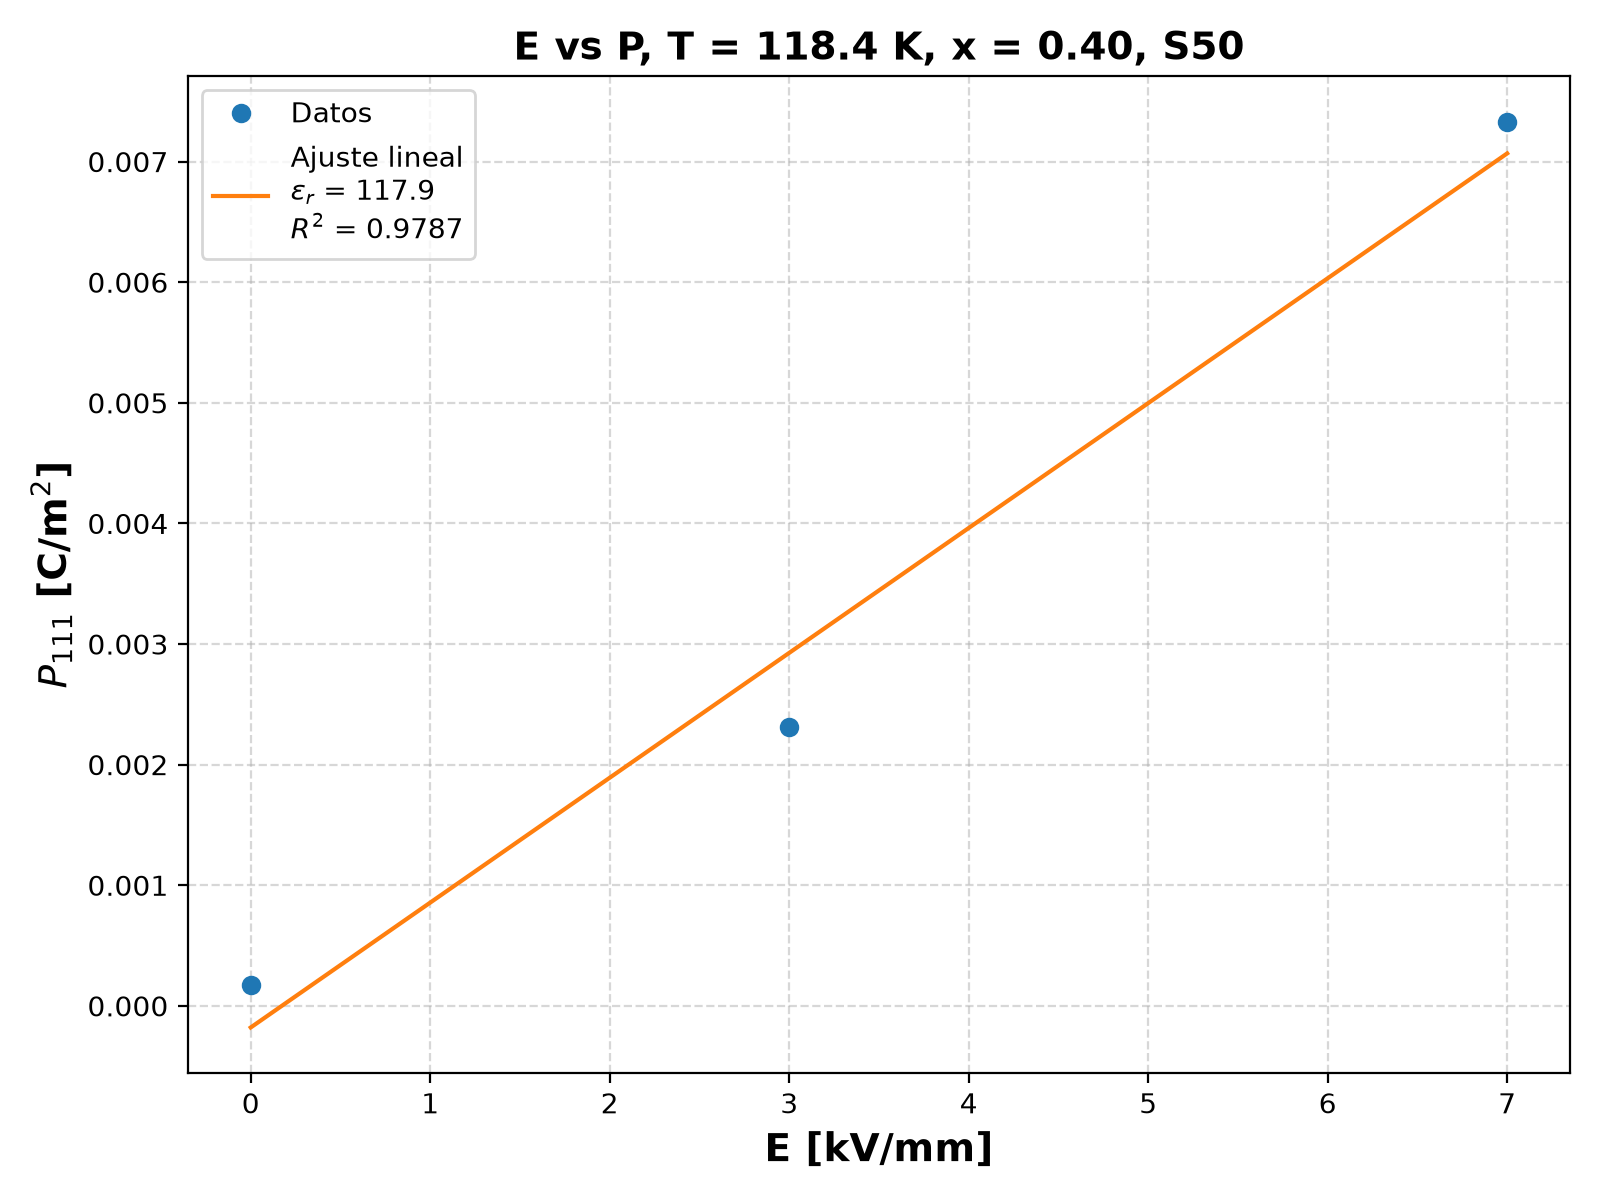
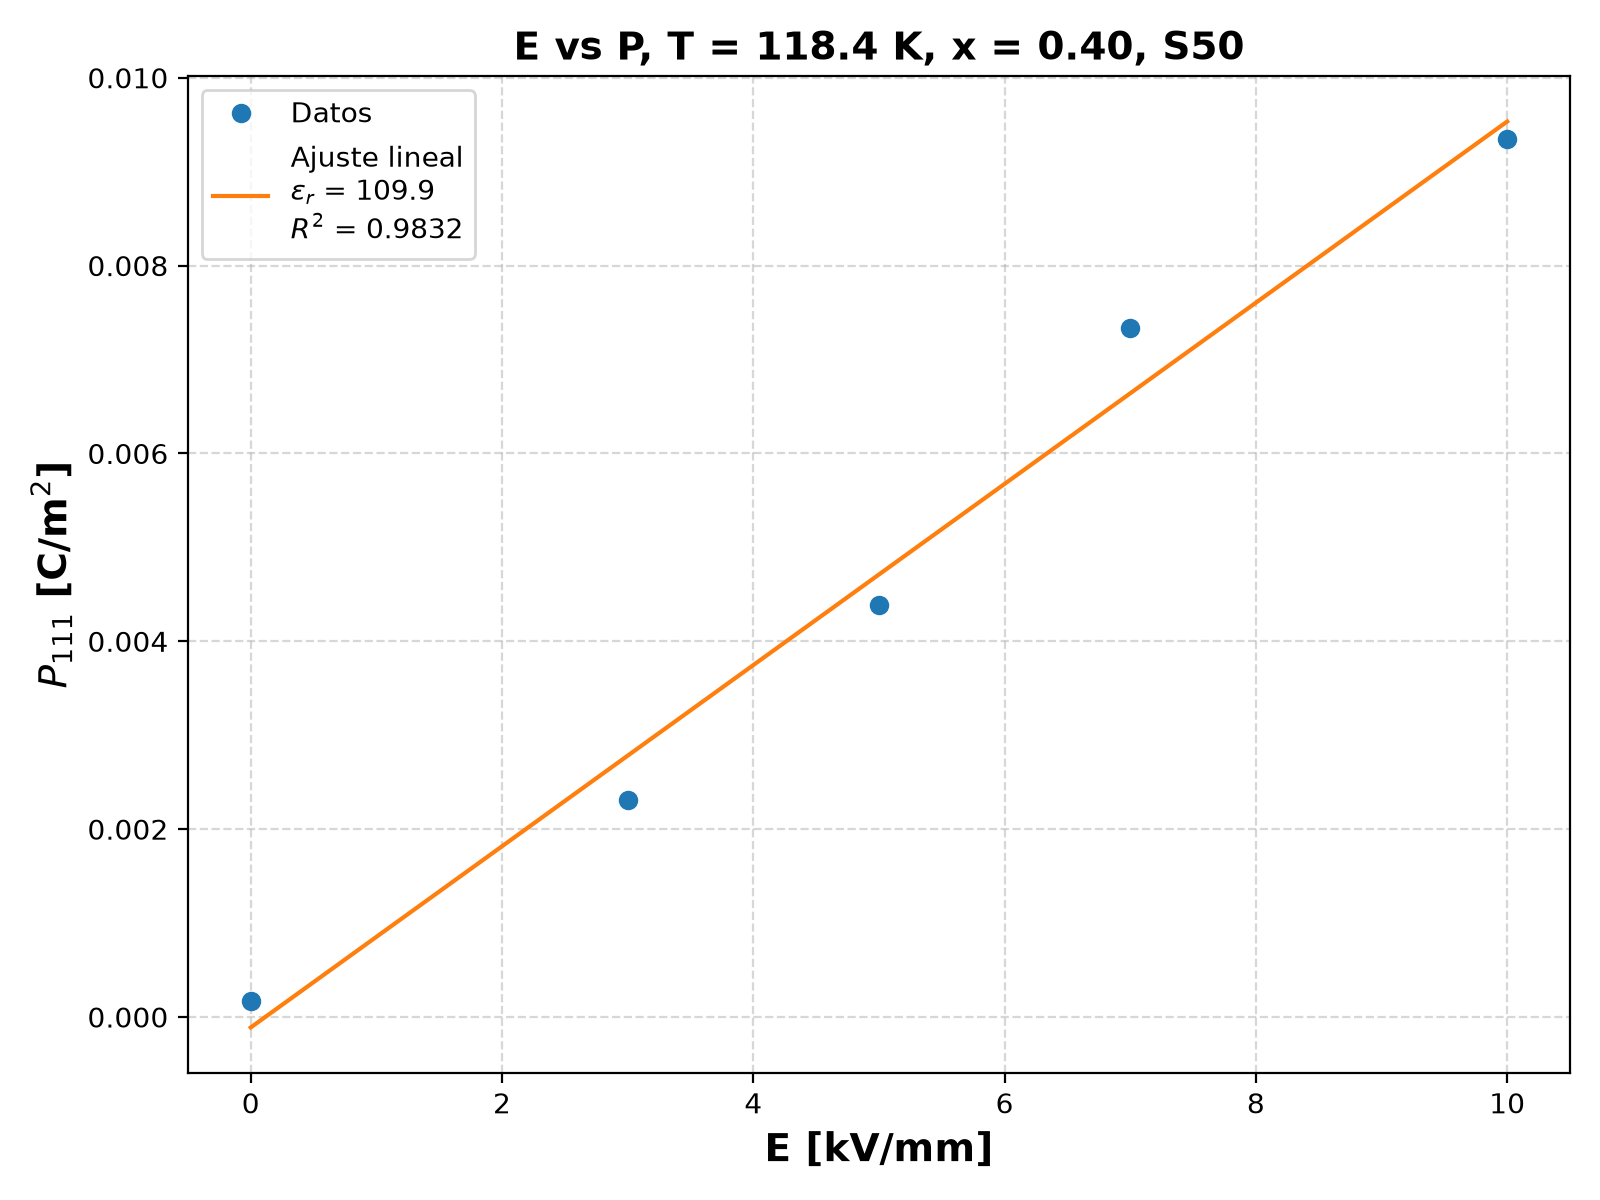
.

diff --git a/Bzt-Segregated/Permitividad_dieléctrica/Permitividad-Curie.py b/Bzt-Segregated/Permitividad_dieléctrica/Permitividad-Curie.py
@@ -1,0 +1,102 @@
+#!/usr/bin/env python3
+import numpy as np
+import matplotlib.pyplot as plt
+import os
+
+# Etiquetas
+CONC = "0.40"
+AGREGACION = ["S0", "S50", "S100"]   # una curva por agregación
+
+# Factor de escala de temperatura (se aplica antes de graficar y de ajustar)
+T_SCALE = 1.48
+
+# Ventana del promedio móvil para suavizar 1/eps_r vs T (1 = sin suavizado)
+SMOOTH_N = 3
+
+# Cantidad de puntos (los de mayor temperatura) que entran en el ajuste de Curie-Weiss
+N_FIT = 5
+
+# Carpetas (relativas a la carpeta de este script)
+BASE_DIR = os.path.dirname(os.path.abspath(__file__))
+DATA_DIR = os.path.join(BASE_DIR, "Datos_permitividad")
+
+
+def smooth(y, n):
+    """Promedio móvil centrado de n puntos; en los bordes promedia los puntos disponibles."""
+    y = np.asarray(y, dtype=float)
+    if n <= 1 or len(y) < 2:
+        return y
+    kernel = np.ones(n)
+    suma = np.convolve(y, kernel, mode="same")
+    cuenta = np.convolve(np.ones_like(y), kernel, mode="same")
+    return suma / cuenta
+
+
+def fit_curie_weiss(T, inv_eps):
+    """
+    Ajuste lineal 1/eps_r = (T - T0)/C.
+    Devuelve (C, T0, slope, intercept, r2).
+    """
+    slope, intercept = np.polyfit(T, inv_eps, 1)
+    C = 1.0 / slope
+    T0 = -intercept / slope
+    ss_res = np.sum((inv_eps - (slope * T + intercept)) ** 2)
+    ss_tot = np.sum((inv_eps - inv_eps.mean()) ** 2)
+    r2 = 1.0 - ss_res / ss_tot if ss_tot > 0 else float("nan")
+    return C, T0, slope, intercept, r2
+
+
+fig, (ax_eps, ax_inv) = plt.subplots(1, 2, figsize=(16, 6))
+colors = plt.rcParams["axes.prop_cycle"].by_key()["color"]
+
+for i, agregacion in enumerate(AGREGACION):
+    data_file = os.path.join(DATA_DIR, f"permittivity-table-{CONC}-{agregacion}.dat")
+    if not os.path.exists(data_file):
+        print(f"[{agregacion}] No se encontró el archivo de datos: {data_file}")
+        continue
+
+    data = np.loadtxt(data_file, usecols=(0, 1), comments="#")
+    data = data[np.argsort(data[:, 0])]
+    T = T_SCALE * data[:, 0]
+    eps = data[:, 1]
+    inv_eps = 1.0 / eps
+    inv_eps_s = smooth(inv_eps, SMOOTH_N)
+    c = colors[i % len(colors)]
+
+    # ---- Permitividad relativa ----
+    ax_eps.plot(T, eps, marker='o', linewidth=1.8, color=c, label=agregacion)
+
+    # ---- Inversa de la permitividad + ajuste de Curie-Weiss ----
+    ax_inv.plot(T, inv_eps, marker='o', linestyle='none', alpha=0.35, color=c)
+    ax_inv.plot(T, inv_eps_s, linewidth=2.0, color=c, label=f"{agregacion} (suavizado n={SMOOTH_N})")
+
+    n_fit = min(N_FIT, len(T))
+    if n_fit < 2:
+        print(f"[{agregacion}] No hay suficientes puntos para el ajuste.")
+        continue
+    T_fit, inv_fit = T[-n_fit:], inv_eps_s[-n_fit:]
+    C, T0, slope, intercept, r2 = fit_curie_weiss(T_fit, inv_fit)
+    print(f"[{agregacion}] C = {C:.4g} K, T0 = {T0:.1f} K, R2 = {r2:.4f} ({n_fit} puntos)")
+
+    ax_inv.plot(T_fit, inv_fit, marker='s', markersize=7, linestyle='none',
+                markerfacecolor='none', markeredgecolor=c)
+    T_line = np.linspace(max(T0, T.min()), T.max(), 200)
+    ax_inv.plot(T_line, slope * T_line + intercept, linestyle='--', linewidth=1.6, color=c,
+                label=f"Curie-Weiss {agregacion}: C = {C:.3g} K, " + r"$T_0$" + f" = {T0:.0f} K, "
+                      + r"$R^2$" + f" = {r2:.3f}")
+
+ax_eps.set_xlabel("Temperatura [K]", fontsize=14, fontweight='bold')
+ax_eps.set_ylabel("Permitividad Relativa " + r"$(\varepsilon_{r,111})$", fontsize=14, fontweight='bold')
+ax_eps.set_title(f"Permitividad Relativa vs Temperatura, x = {CONC}", fontsize=15, fontweight='bold')
+
+ax_inv.set_xlabel("Temperatura [K]", fontsize=14, fontweight='bold')
+ax_inv.set_ylabel(r"$1/\varepsilon_{r,111}$", fontsize=14, fontweight='bold')
+ax_inv.set_title(f"Inversa de la Permitividad, x = {CONC} (ajuste: {N_FIT} puntos)", fontsize=15, fontweight='bold')
+
+for ax in (ax_eps, ax_inv):
+    ax.legend(fontsize=10)
+    ax.grid(True, linestyle='--', alpha=0.5)
+    ax.minorticks_on()
+
+fig.tight_layout()
+plt.show()

diff --git a/Bzt-Segregated/Permitividad_dieléctrica/Permitividad.py b/Bzt-Segregated/Permitividad_dieléctrica/Permitividad.py
@@ -10,7 +10,7 @@ CONC = "0.40"
 AGREGACION = ["S0", "S50", "S100"]   # se procesa cada agregación de la lista
 
 # Valores de campo eléctrico [kV/mm] a usar en el ajuste (campo aplicado en la dirección [111])
-FIELDS_KV_MM = [0.0, 3.0, 7.0]
+FIELDS_KV_MM = [0.0, 3.0, 5.0, 7.0, 10.0]
 
 # Factor de escala de temperatura (solo para graficar)
 T_SCALE = 1.48
